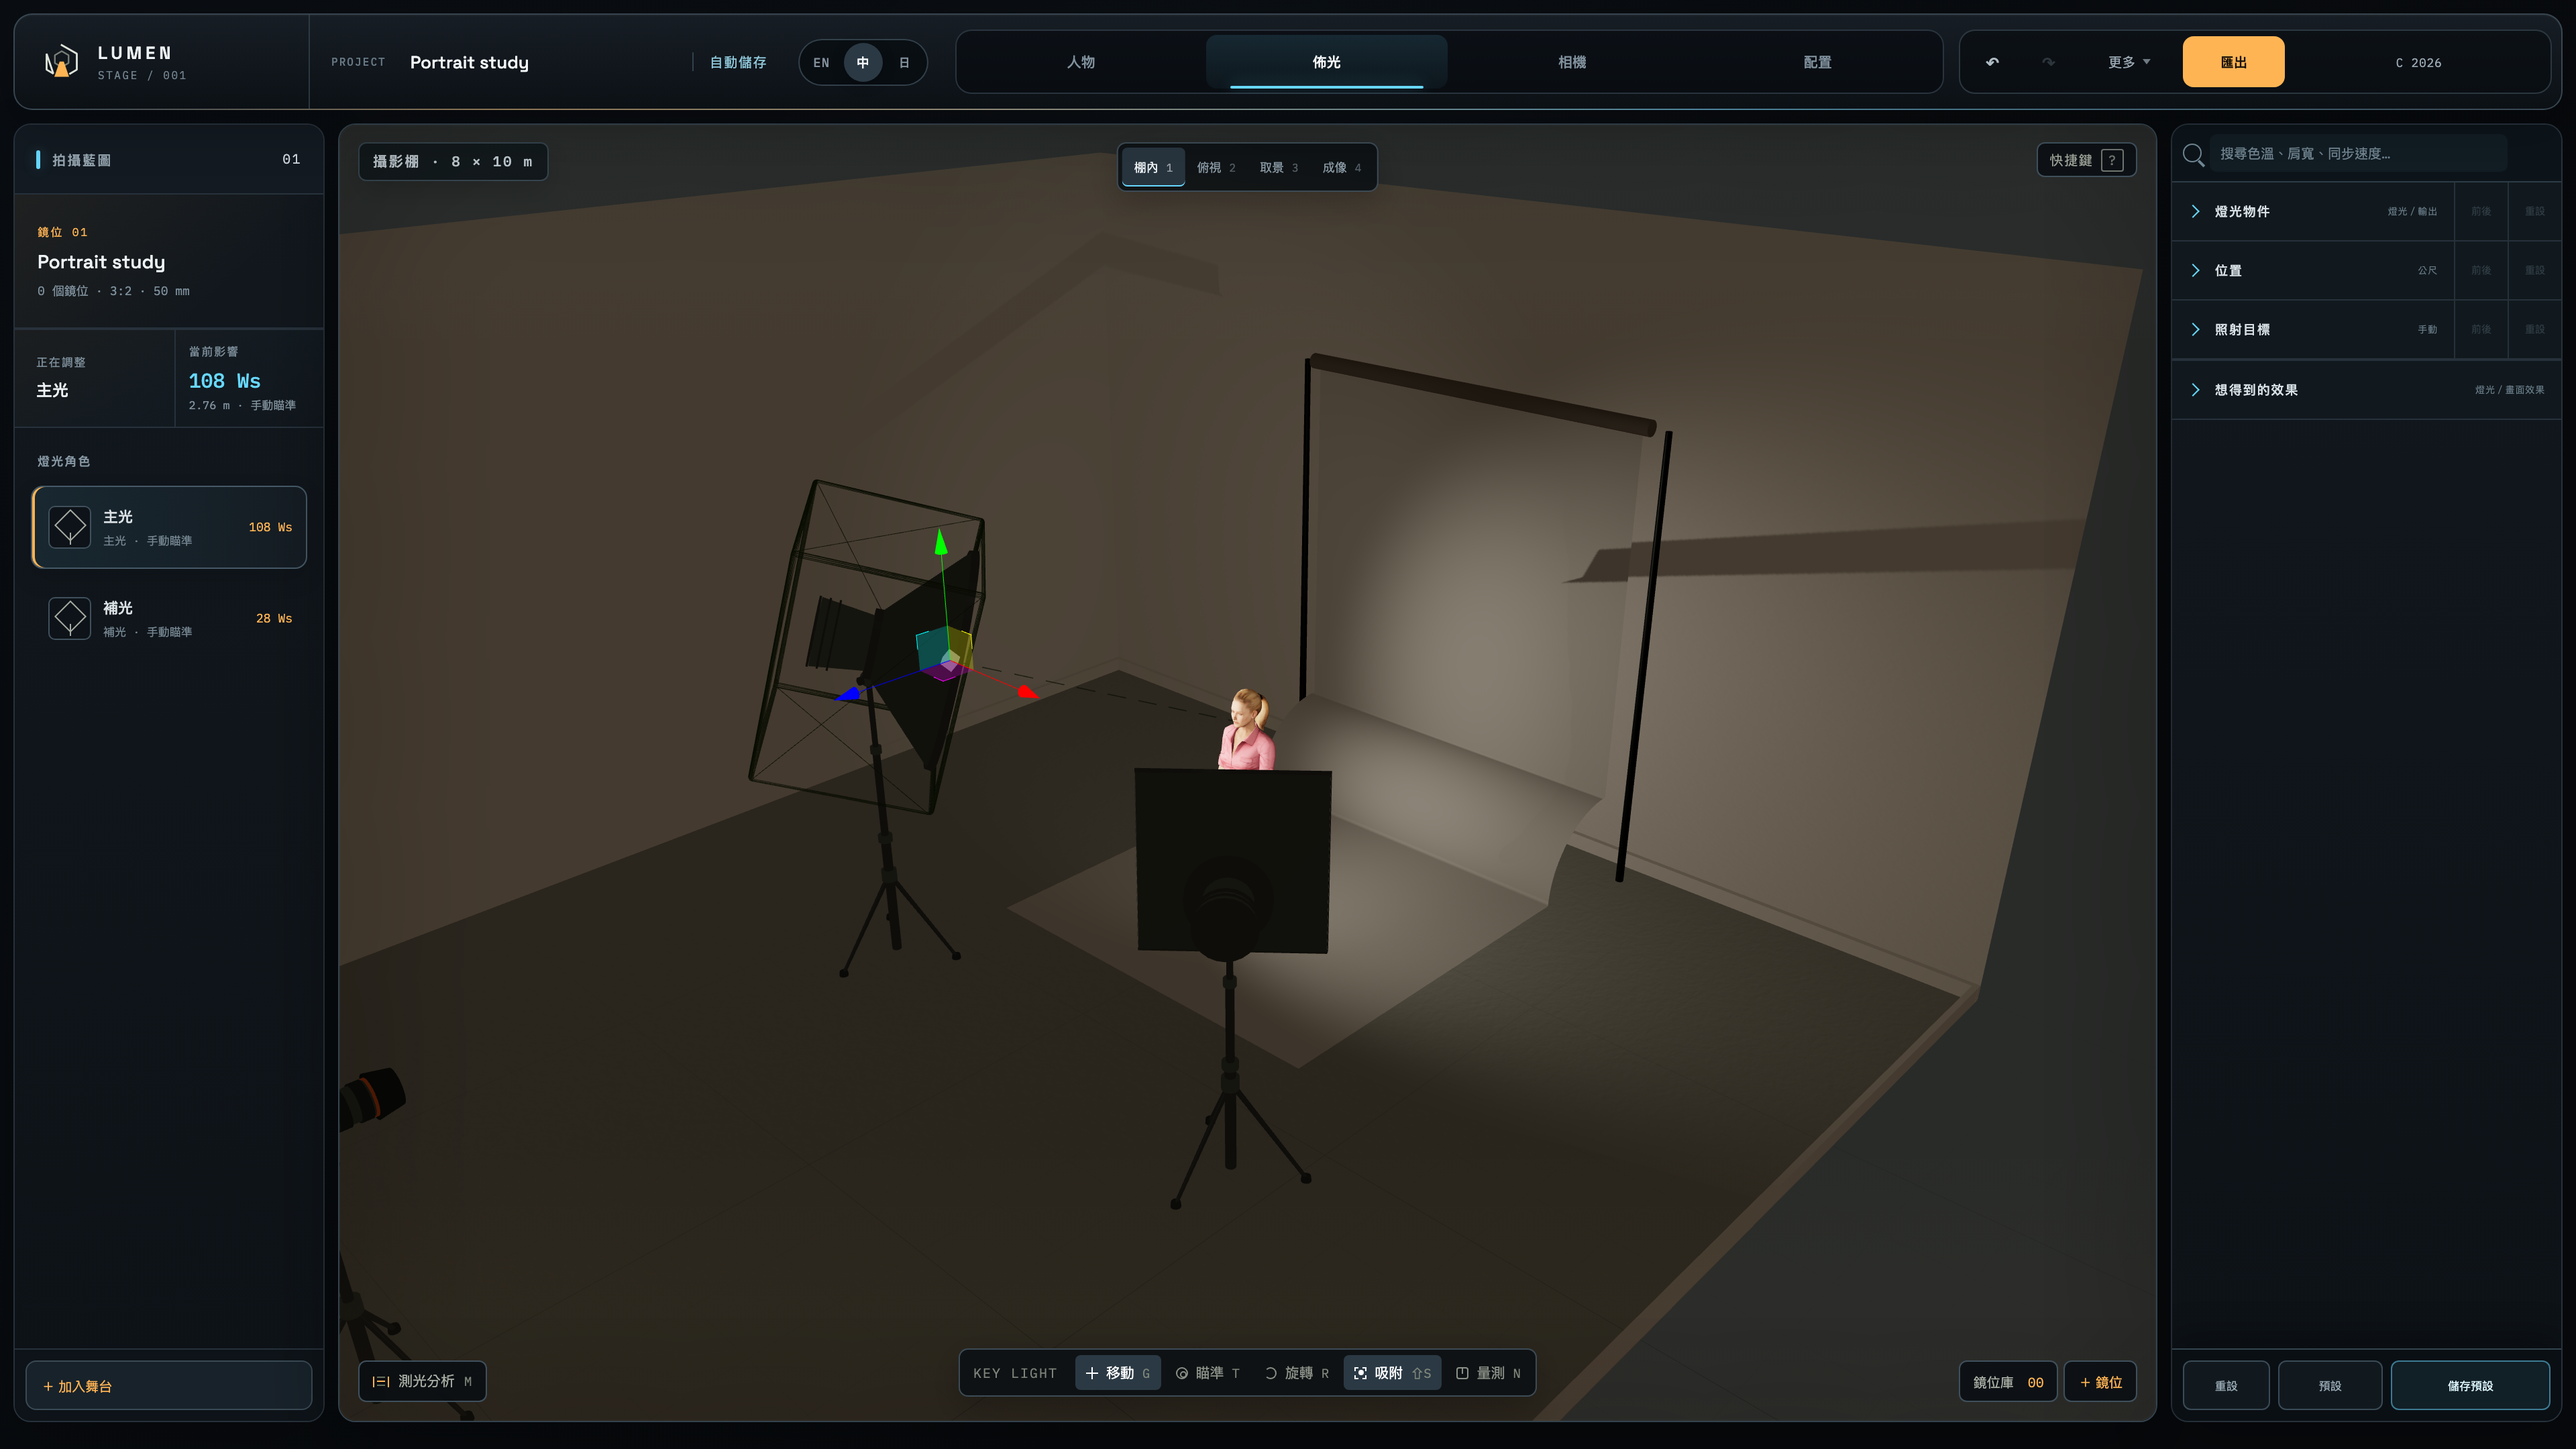
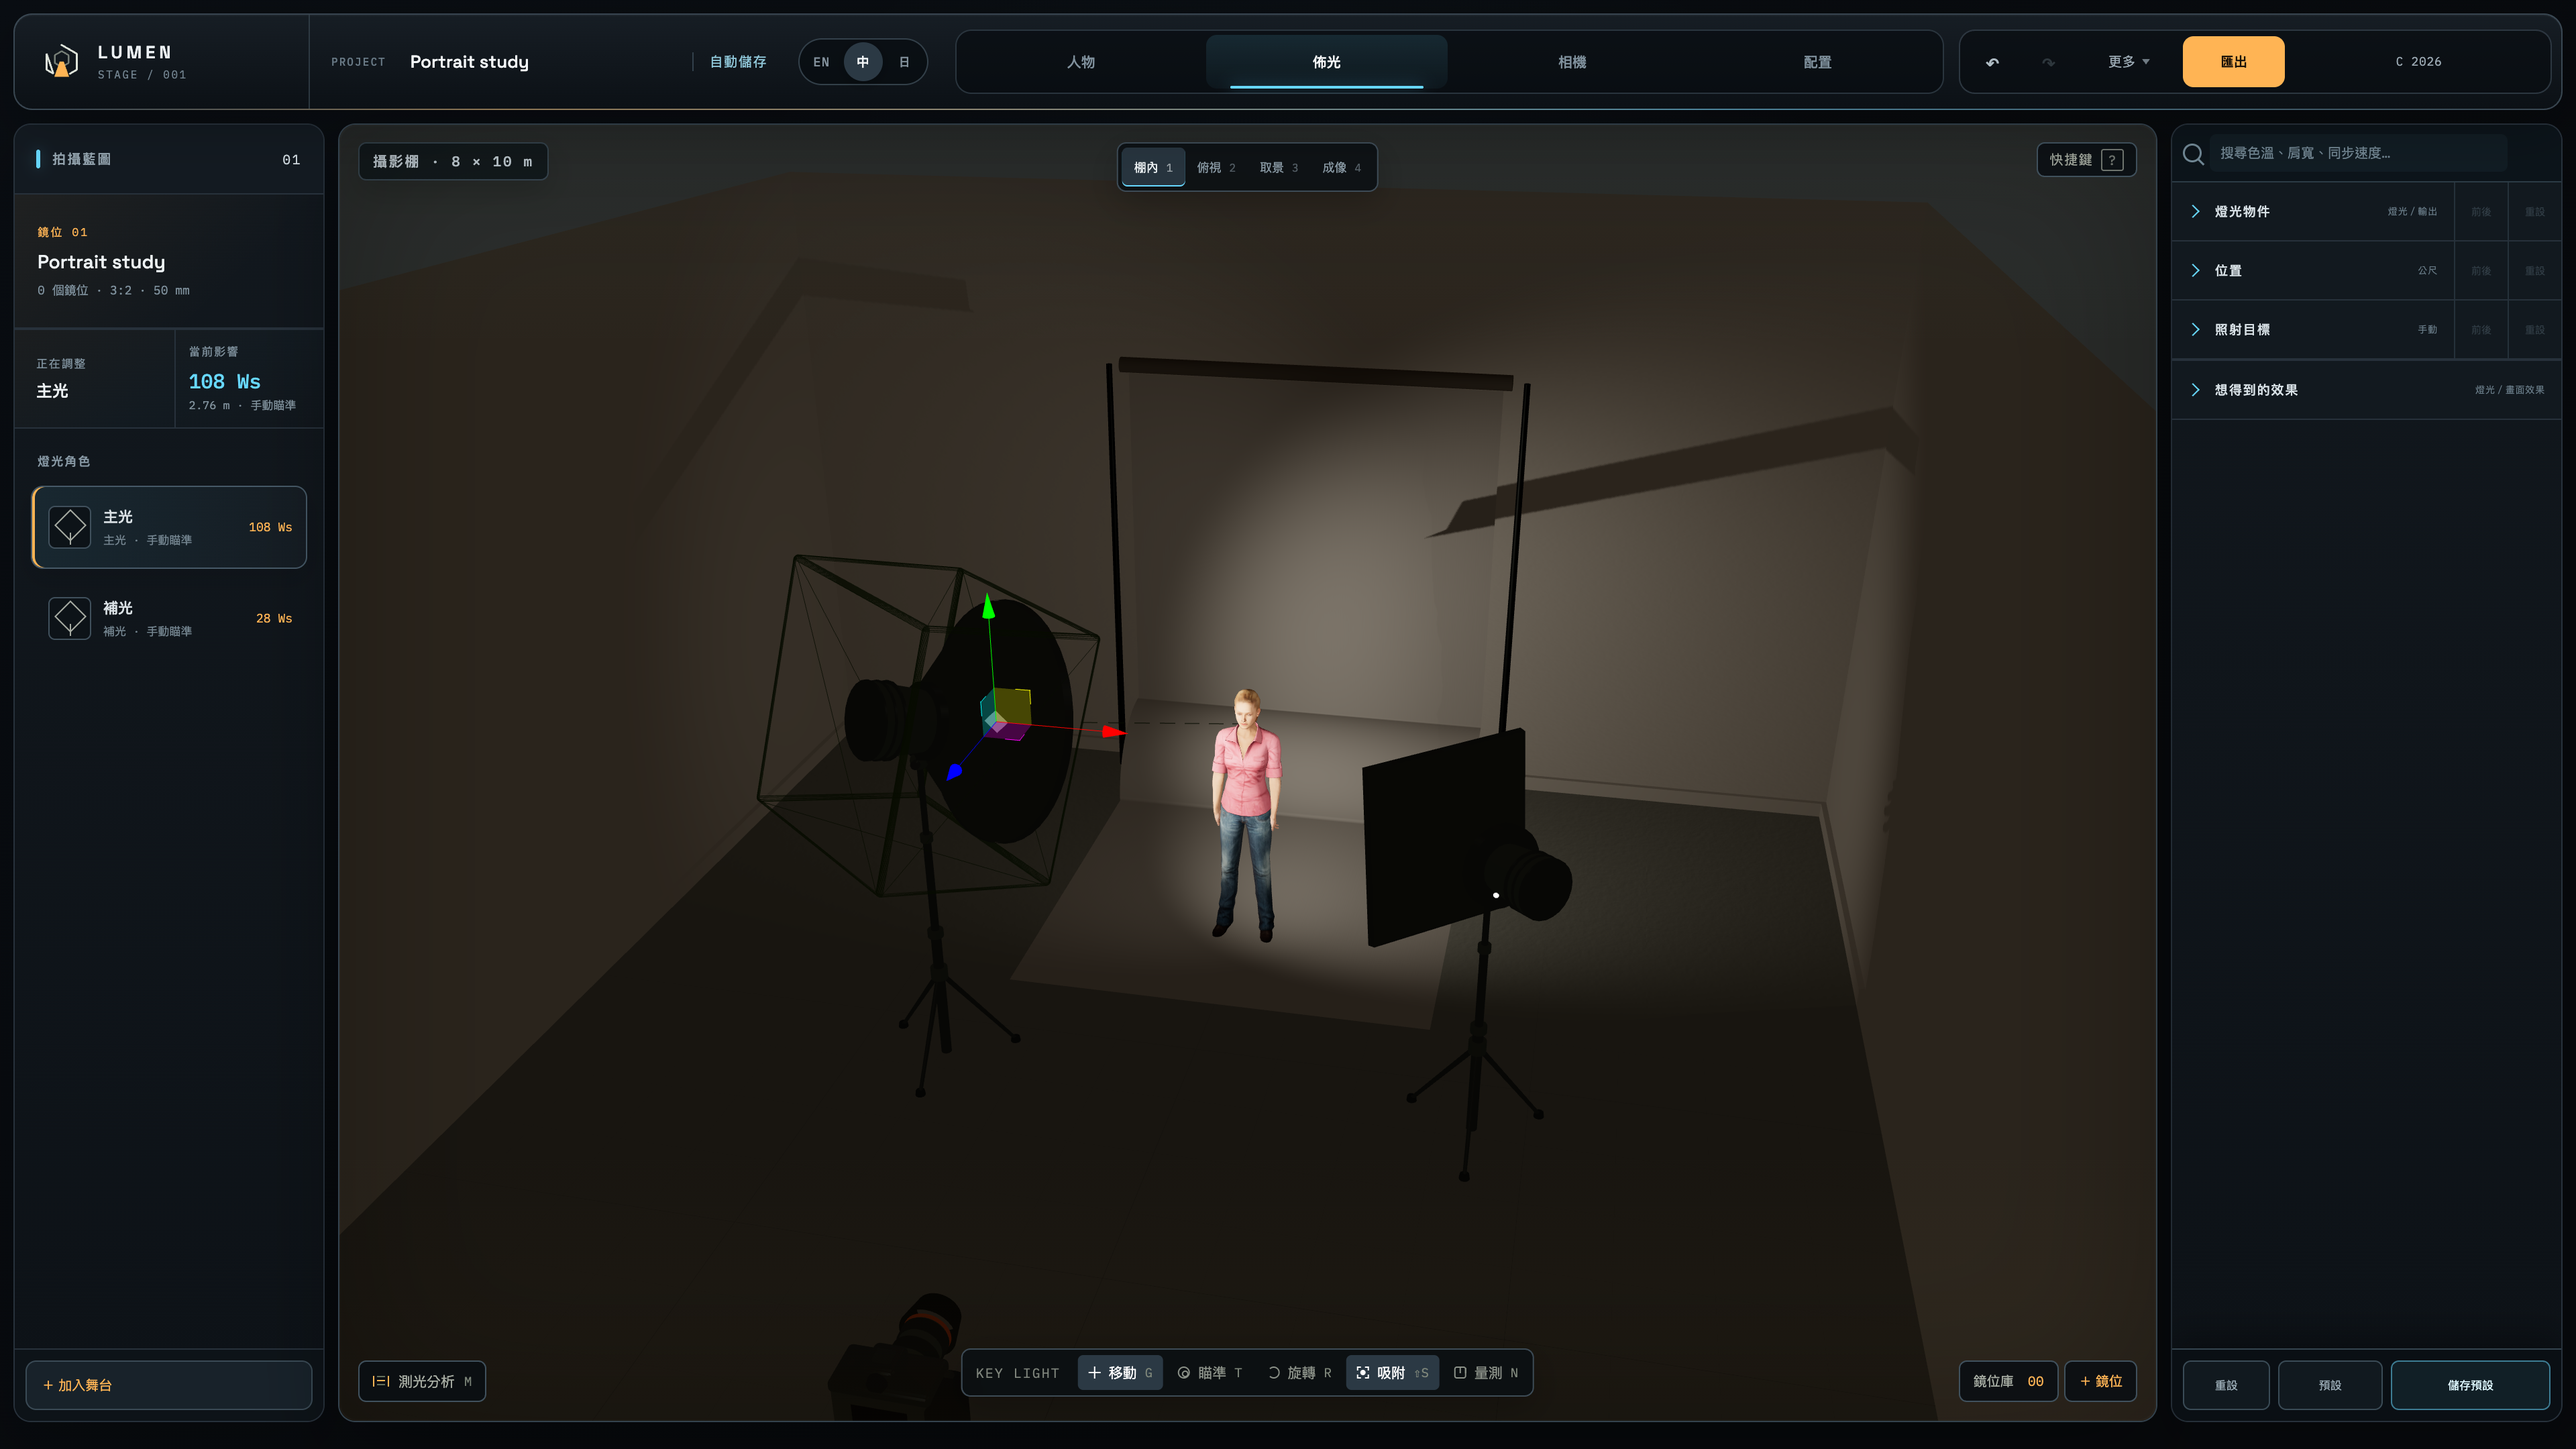
Refresh matched 4K previews with unclipped editor lighting

diff --git a/src/components/StudioScene.tsx b/src/components/StudioScene.tsx
@@ -3735,32 +3735,9 @@ function ExposureProbe() {
   return null
 }
 
-/**
- * Working light for the editor viewport, and only for the editor viewport.
- *
- * The room is lit by strobes measured in hundreds of watt-seconds and the
- * scene's own ambient tops out around 1.3, so a first load once rendered 48%
- * of the frame at pure black -- the far wall, the floor outside the key's pool
- * and both stands were simply not there. You cannot block a shot in a room you
- * cannot see. The editor already declines to be photometric (its exposure is
- * pinned rather than derived from ISO and aperture), so lighting it to be read
- * is the same bargain, not a new one.
- *
- * The pair of numbers is a balance, and both ends of it are measurable. Purely
- * lifting ambient and leaving the heads alone gives contrast but a harsh
- * frame; dropping the heads to 8% and lifting ambient to 70 removes the black
- * but flattens the key's pool until you cannot see where the light lands,
- * which is the one thing this viewport exists to show. Measured as the
- * standard deviation of frame luminance on a default scene: 0.229 at (22, 1.0)
- * against 0.092 at (70, 0.08), with neither showing a black pixel. 40 and 0.4
- * sit at 0.179 -- most of the modelling, none of the harshness.
- *
- * The viewfinder and the path renderer are excluded: those two have to keep
- * telling the truth, because that is the photograph. Solo keeps its near-black
- * as well, since killing everything but one light is the whole point of it.
- */
+/** Editor working light keeps faces readable without changing camera/export energy. */
 const EDITOR_AMBIENT = 40
-const EDITOR_HEAD_GAIN = 0.4
+const EDITOR_HEAD_GAIN = 0.08
 
 const MemoMannequin = memo(Mannequin)
 const MemoSoftbox = memo(Softbox)
